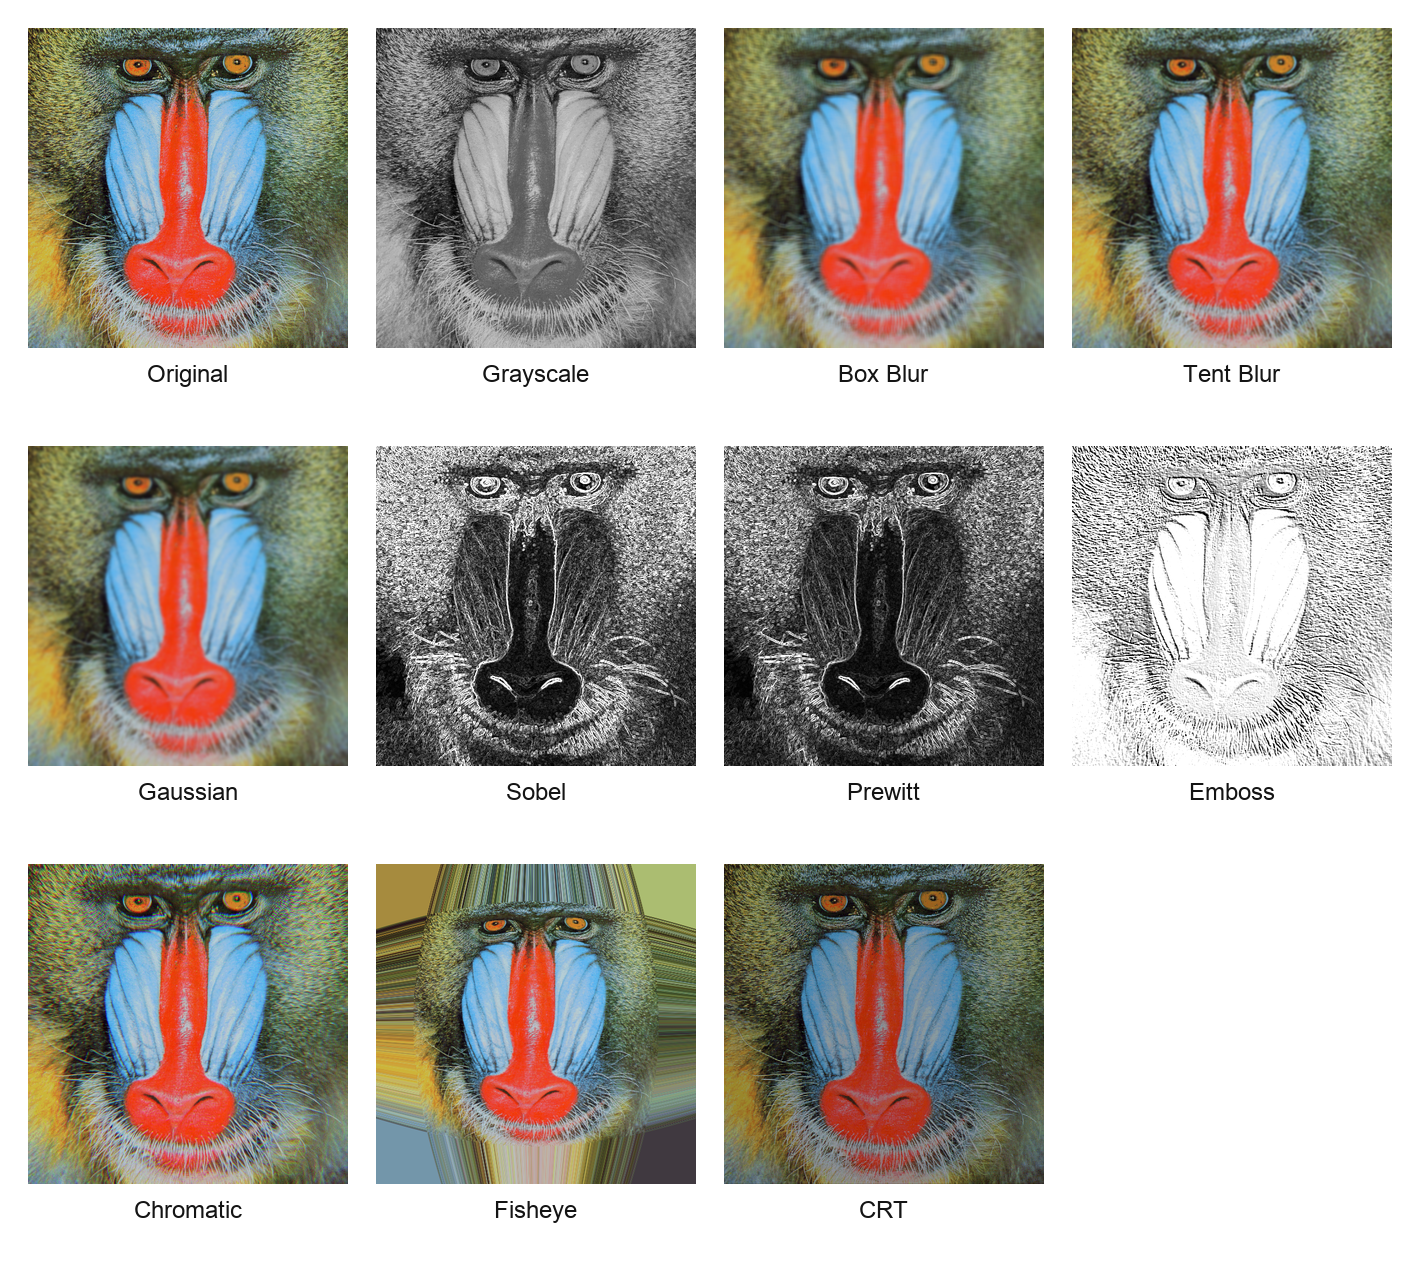
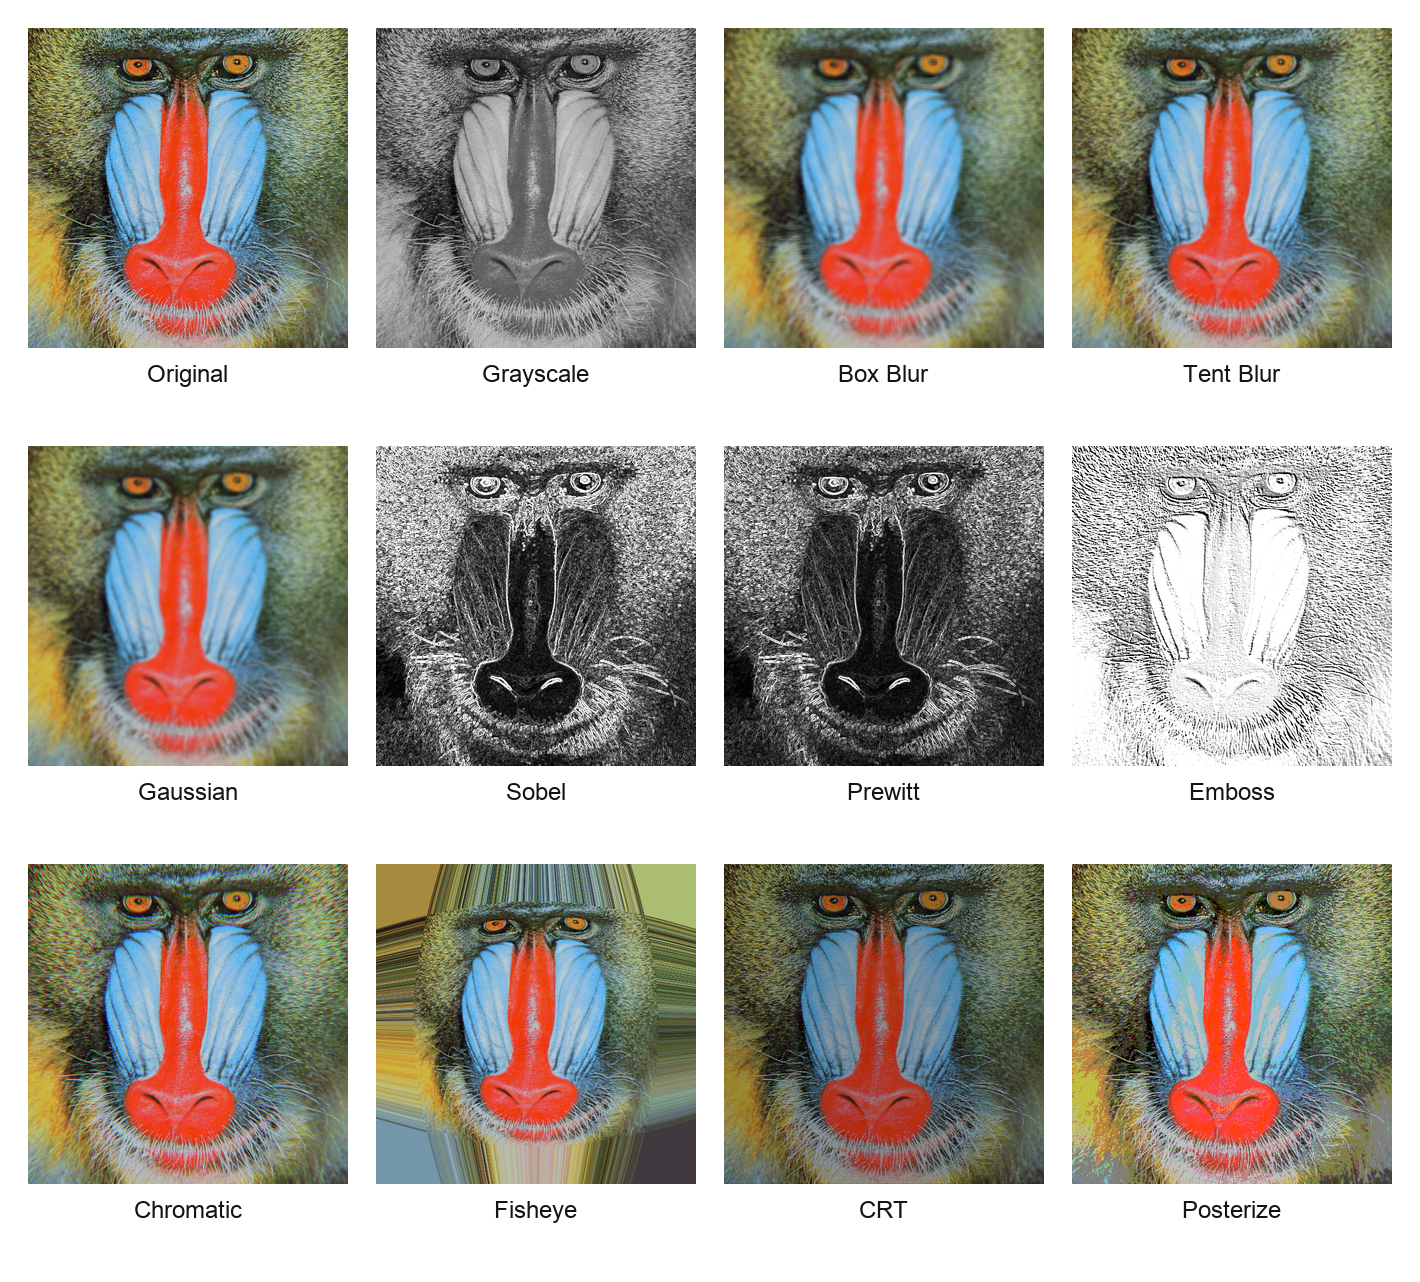
added posterize

Changed region(s): [[0.7437, 0.6552, 0.9915, 0.9672]]

diff --git a/src/filters.js b/src/filters.js
@@ -56,6 +56,23 @@ export const FILTERS = [
   },
 
   {
+    id:      'posterize',
+    name:    'Posterize',
+    shader:  'shaders/posterize.glsl',
+    uniforms: [
+      {
+        name:    'uLevels',
+        label:   'Levels',
+        type:    'int',
+        min:     2,
+        max:     16,
+        step:    1,
+        default: 5,
+      },
+    ],
+  },
+
+  {
     id:      'box',
     name:    'Box Blur',
     shader:  'shaders/box.glsl',

diff --git a/scripts/build_poster_figures.py b/scripts/build_poster_figures.py
@@ -26,6 +26,7 @@ FILTER_LABELS = [
     ("chromatic-aberration.png", "Chromatic"),
     ("fisheye.png", "Fisheye"),
     ("crt.png", "CRT"),
+    ("posterize.png", "Posterize"),
 ]
 
 